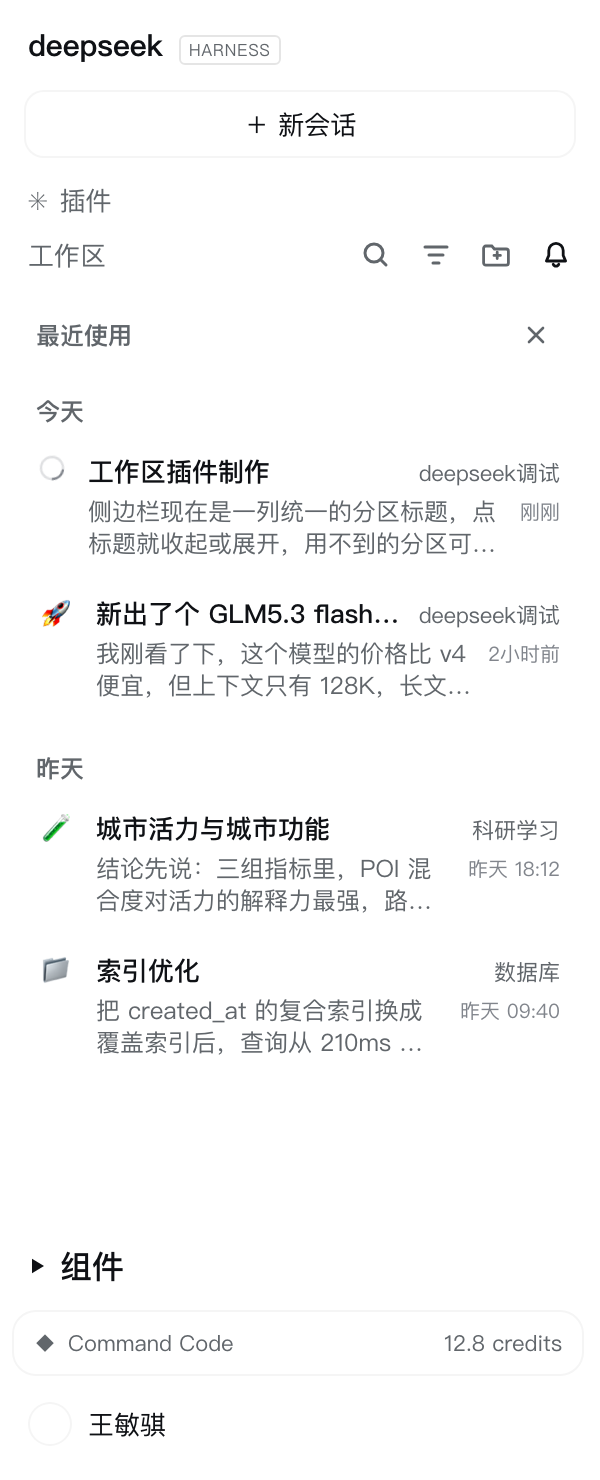
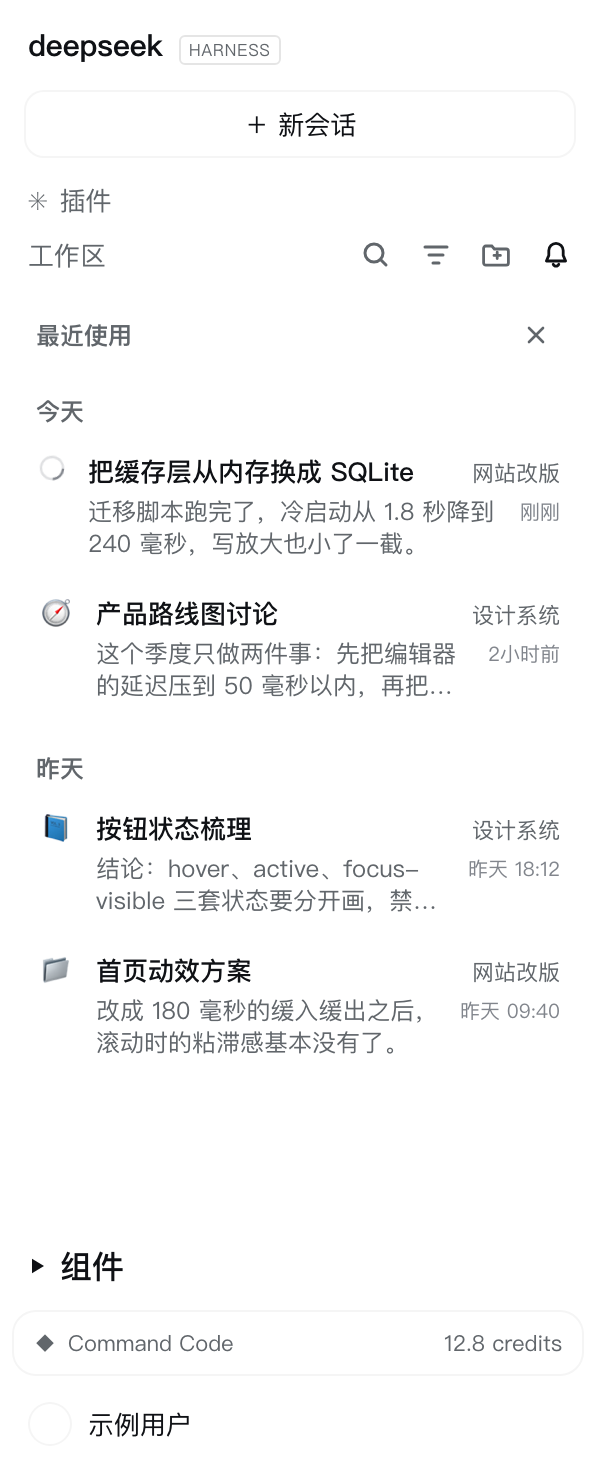
Use fictional sample data in the docs and test fixtures
The README diagrams and the harness fixtures carried a real workspace name and a
real session title; both are now generic (示例工作区 / 设计系统 / 前端动效).

diff --git a/README.md b/README.md
@@ -49,14 +49,14 @@ collapsible sections.**
 ```
 ┌ 工作区                        🔍  ⌘  📁+  🔔   ← the bell opens the activity view
 │ ▾ 置顶                                  3       ← pinned band (conversations + projects)
-│   ▸ 🌈 deepseek调试                     项目
-│     🚀 新出了个GLM5.3 flashx…           会话
+│   ▸ 🎨 设计系统                         项目
+│     📘 把缓存层从内存换成 SQLite         会话
 │     🌈 我没发现现在有什么这个左侧…      会话
 │   ────────────────────────────────────
 │ ▾ 项目                                  9       ← the shipped project list, collapsible
 │   📁 pdf
 │   🚀 前沿方向研究
-│       新出了个GLM5.3 flashx…            1天
+│       首页动效方案                      3天
 └
   ⋯ widgets ⋯
   ▸ 组件                                          ← the bottom widgets, collapsible
